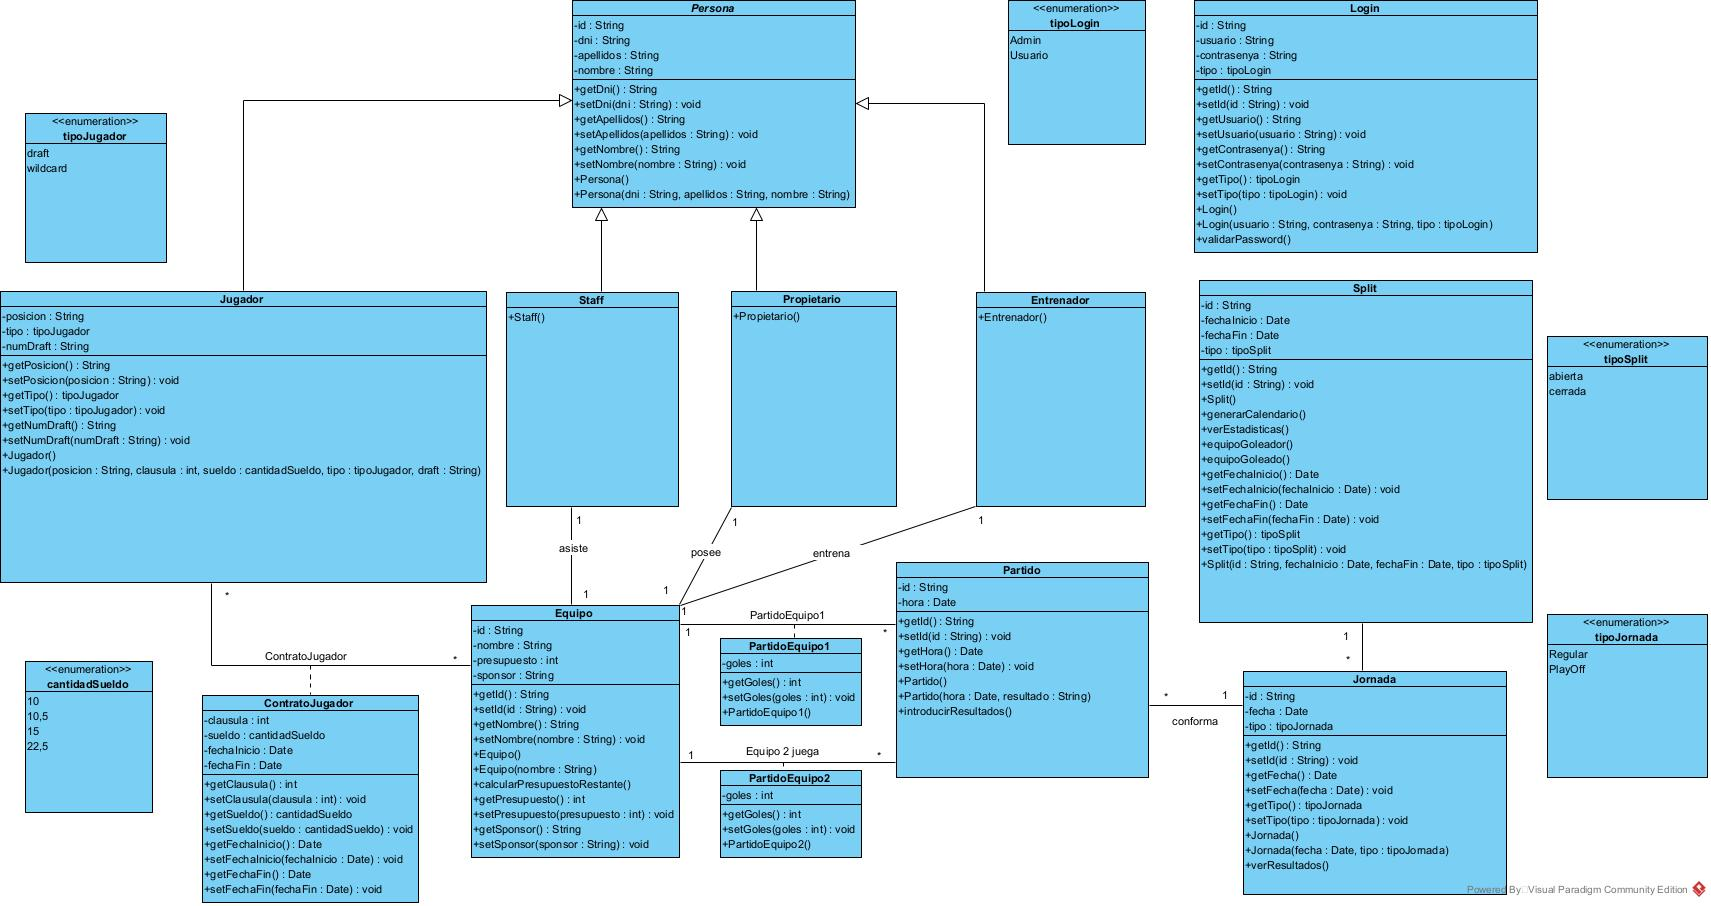
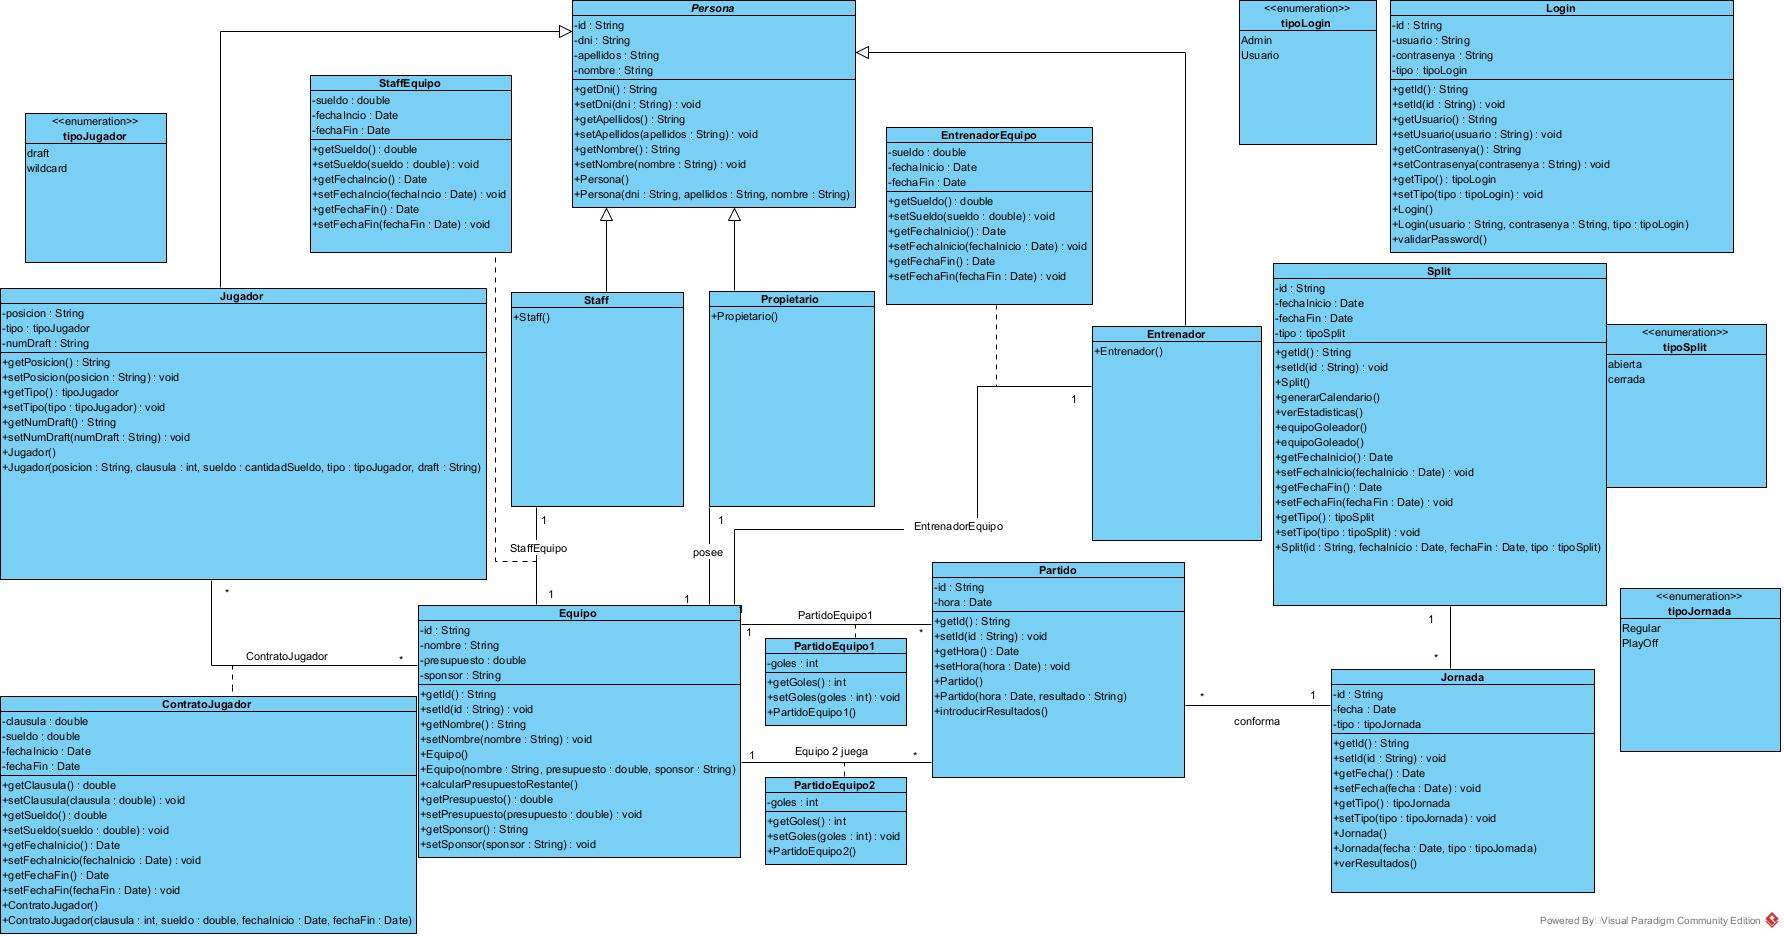
Clase Jornada y ContratoJugador + Correcion diadramas de clase

diff --git a/Programacion/KingsLeague/src/Modelo/ContratoJugador.java b/Programacion/KingsLeague/src/Modelo/ContratoJugador.java
@@ -1,5 +1,79 @@
 package Modelo;
 
+import java.time.LocalDate;
+
 public class ContratoJugador {
 
+    private Jugador jugador;
+    private Equipo equipo;
+    private double clausula;
+    private double sueldo;
+    private LocalDate fechaInicio;
+    private LocalDate fechaFin;
+
+    public ContratoJugador() {
+    }
+
+    public ContratoJugador(Jugador jugador, Equipo equipo, double clausula, double sueldo, LocalDate fechaInicio, LocalDate fechaFin) {
+        this.jugador = jugador;
+        this.equipo = equipo;
+        //Validar que la clausula sea una de las cantidades obligatorias
+        if (clausula == 10 || clausula == 10.5 || clausula == 15 || clausula == 22.5){
+            this.clausula = clausula;
+        }
+        this.sueldo = sueldo;
+        this.fechaInicio = fechaInicio;
+        this.fechaFin = fechaFin;
+    }
+
+    public Jugador getJugador() {
+        return jugador;
+    }
+
+    public void setJugador(Jugador jugador) {
+        this.jugador = jugador;
+    }
+
+    public Equipo getEquipo() {
+        return equipo;
+    }
+
+    public void setEquipo(Equipo equipo) {
+        this.equipo = equipo;
+    }
+
+    public double getClausula() {
+        return clausula;
+    }
+
+    public void setClausula(double clausula) {
+        //Validar que la clausula sea una de las cantidades obligatorias
+        if (clausula == 10 || clausula == 10.5 || clausula == 15 || clausula == 22.5){
+            this.clausula = clausula;
+        }
+    }
+
+    public double getSueldo() {
+        return sueldo;
+    }
+
+    public void setSueldo(double sueldo) {
+        this.sueldo = sueldo;
+    }
+
+    public LocalDate getFechaInicio() {
+        return fechaInicio;
+    }
+
+    public void setFechaInicio(LocalDate fechaInicio) {
+        this.fechaInicio = fechaInicio;
+    }
+
+    public LocalDate getFechaFin() {
+        return fechaFin;
+    }
+
+    public void setFechaFin(LocalDate fechaFin) {
+        this.fechaFin = fechaFin;
+    }
 }

diff --git a/Programacion/KingsLeague/src/Modelo/Jornada.java b/Programacion/KingsLeague/src/Modelo/Jornada.java
@@ -1,4 +1,68 @@
 package Modelo;
 
+import java.time.LocalDate;
+import java.util.ArrayList;
+
 public class Jornada {
+
+    public enum tipoJornada {
+        regular,playoff
+    }
+    private String id;
+    private LocalDate fecha;
+    private tipoJornada tipoJornada;
+    private ArrayList <Partido> partidos;
+
+    public Jornada() {
+    }
+
+    public Jornada(String id, LocalDate fecha, Jornada.tipoJornada tipoJornada) {
+        this.id = id;
+        this.fecha = fecha;
+        this.tipoJornada = tipoJornada;
+    }
+
+    public Jornada(String id, LocalDate fecha, Jornada.tipoJornada tipoJornada, ArrayList<Partido> partidos) {
+        this.id = id;
+        this.fecha = fecha;
+        this.tipoJornada = tipoJornada;
+        this.partidos = partidos;
+    }
+
+    public String getId() {
+        return id;
+    }
+
+    public void setId(String id) {
+        this.id = id;
+    }
+
+    public LocalDate getFecha() {
+        return fecha;
+    }
+
+    public void setFecha(LocalDate fecha) {
+        this.fecha = fecha;
+    }
+
+    public Jornada.tipoJornada getTipoJornada() {
+        return tipoJornada;
+    }
+
+    public void setTipoJornada(Jornada.tipoJornada tipoJornada) {
+        this.tipoJornada = tipoJornada;
+    }
+
+    public ArrayList<Partido> getPartidos() {
+        return partidos;
+    }
+
+    public void setPartidos(ArrayList<Partido> partidos) {
+        this.partidos = partidos;
+    }
+
+    //Metodo para añadir un partido individual al arraylist de la relacion
+    public void setPartido(Partido partido) {
+        this.partidos.add(partido);
+    }
 }
